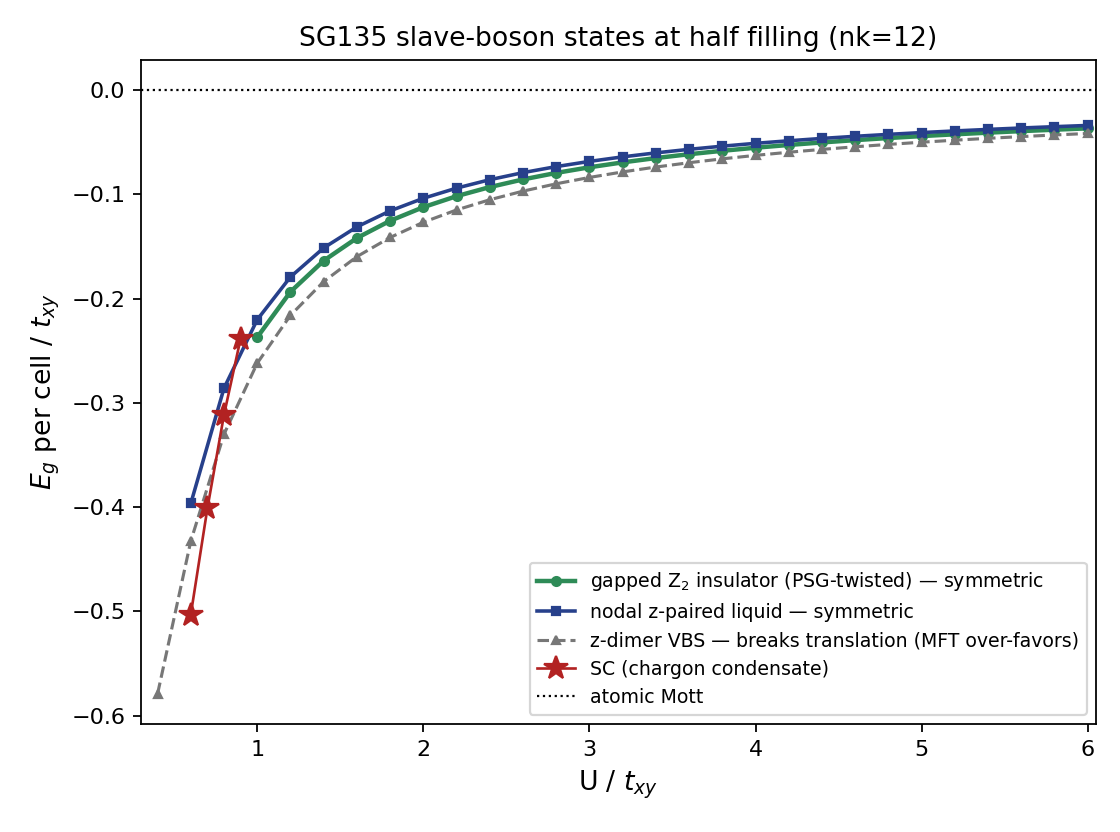
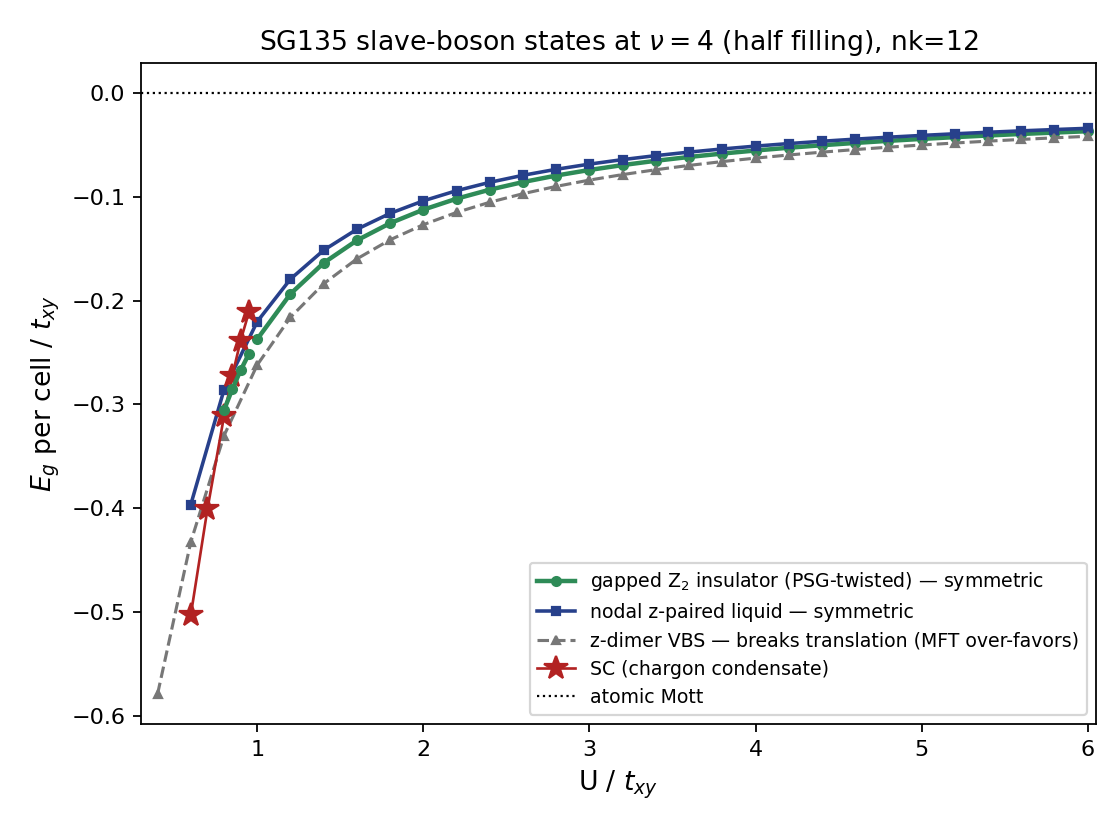
nk=12 transition data confirms U* in (0.80,0.85); final phases figure

diff --git a/summary.md b/summary.md
@@ -28,8 +28,8 @@ could not solve.
   plane. ![nodal](figures/sg135_bands_znodal_U4.png)
 - A **π-flux (PSG-twisted) ansatz** — staggered z-bonds, whose matrix
   structure anticommutes with the xy channel — gaps everything: pairing gaps
-  add in quadrature. It is the **lowest symmetric state for all U ≳ 1**.
-  ![ladder](figures/sg135_state_ladder.png)
+  add in quadrature. It is the **lowest symmetric state for all U above
+  U* ≈ 0.85**. ![ladder](figures/sg135_state_ladder.png)
 - This state is **fully gapped, uncondensed, and space-group symmetric**
   (verified generator-by-generator at machine precision, both matter sectors,
   with its Z₂ gauge structure resolved); it realizes the topologically
@@ -204,12 +204,12 @@ Below U* the chargon condenses and a superconducting solution with *uniform*
 mixed-channel pairing takes over (the staggered channel stays zero once the
 condensate forms — checked by the combined staggered+condensate solve). The
 transition is **first-order at U* ∈ (0.80, 0.85)**, with both branches
-computed on both sides: at U = 0.80 the SC wins (−0.3114 vs the π-flux
-state's −0.3058); at U = 0.85 the π-flux state already wins (−0.2854 vs
-−0.2724); below U ≈ 0.8 the π-flux branch terminates (its chargon gap
-closes) and above U ≈ 1.0 the SC condensate amplitude vanishes. (A second
-red-team round caught an earlier mis-pin of this crossing that compared the
-SC against the wrong branch.)
+computed on both sides at nk = 12 (`code/sg135/transition_nk12.npy`): at
+U = 0.80 the SC wins (−0.3114 vs the π-flux state's −0.3056); at U = 0.85
+the π-flux state already wins (−0.2852 vs −0.2724); below U ≈ 0.8 the π-flux
+branch terminates (its chargon gap closes) and above U ≈ 1.0 the SC
+condensate amplitude vanishes. (A second red-team round caught an earlier
+mis-pin of this crossing that compared the SC against the wrong branch.)
 
 ## §6 Limitations and next steps
 
